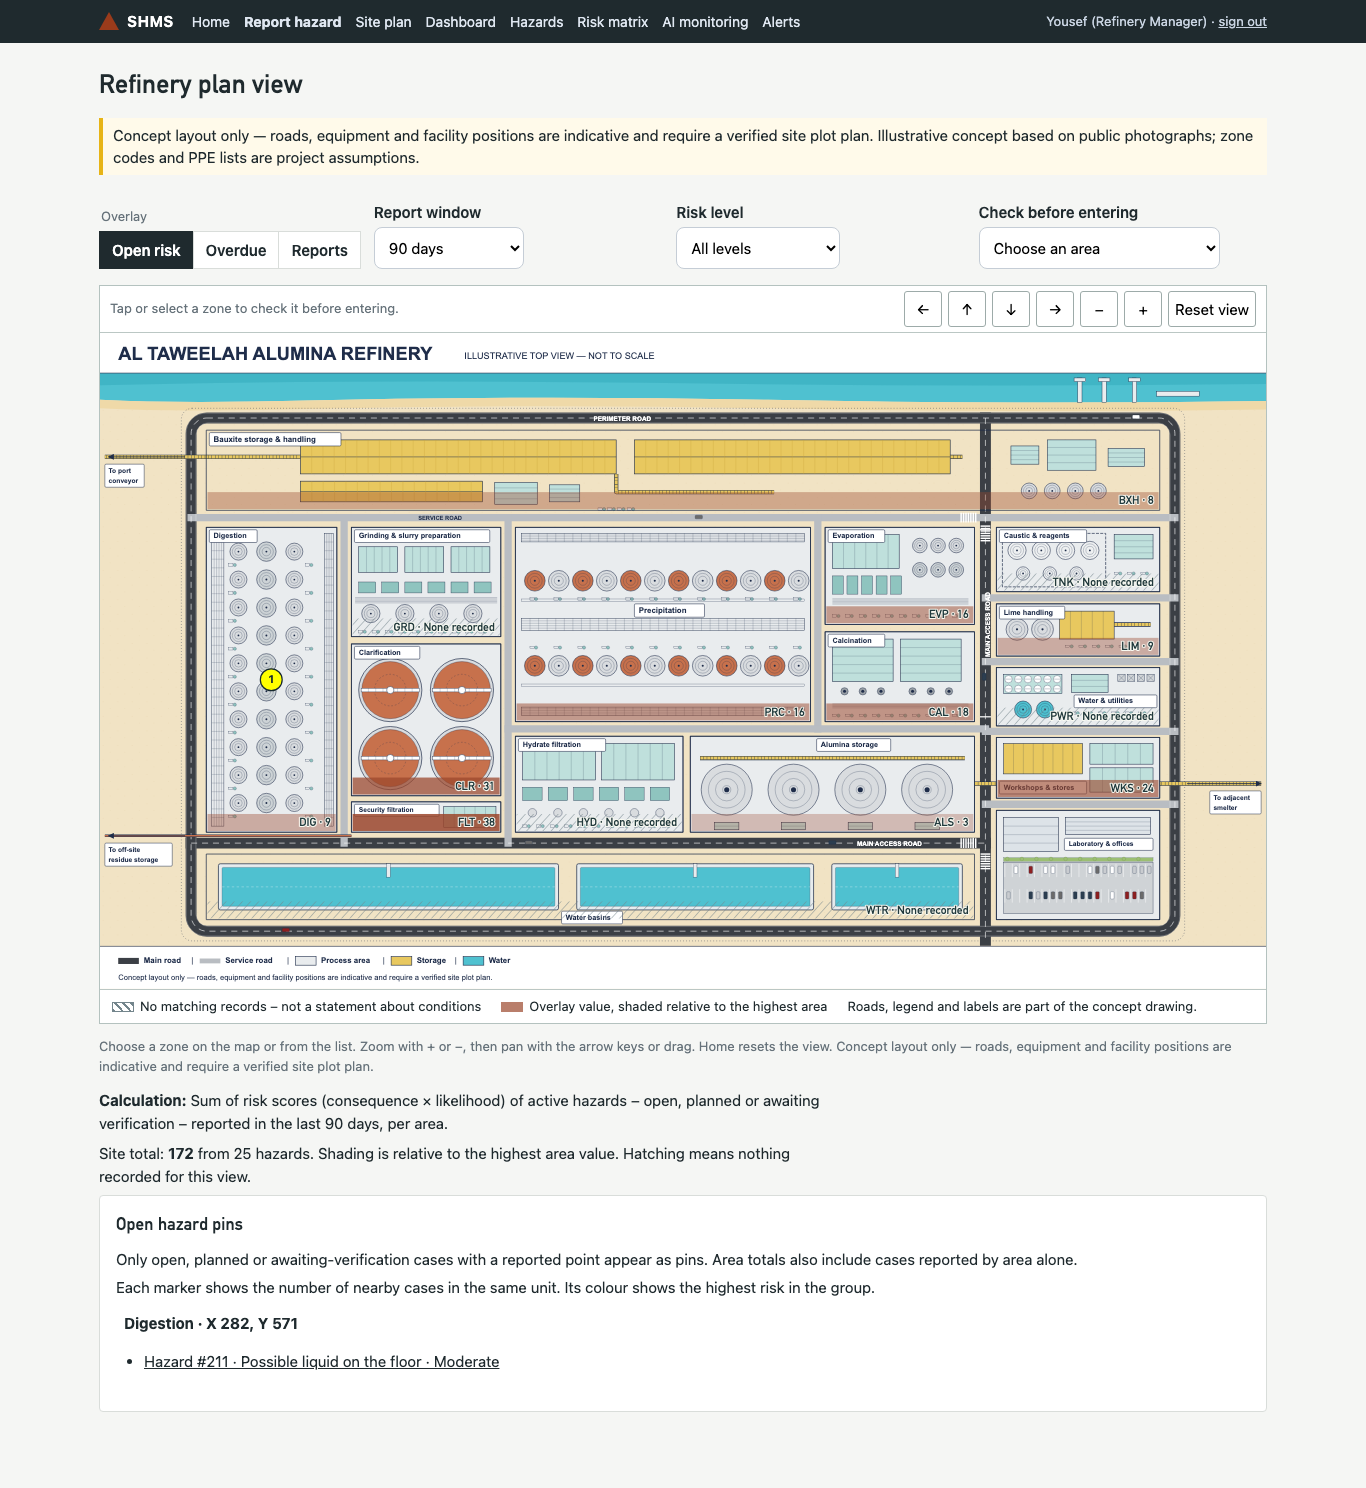
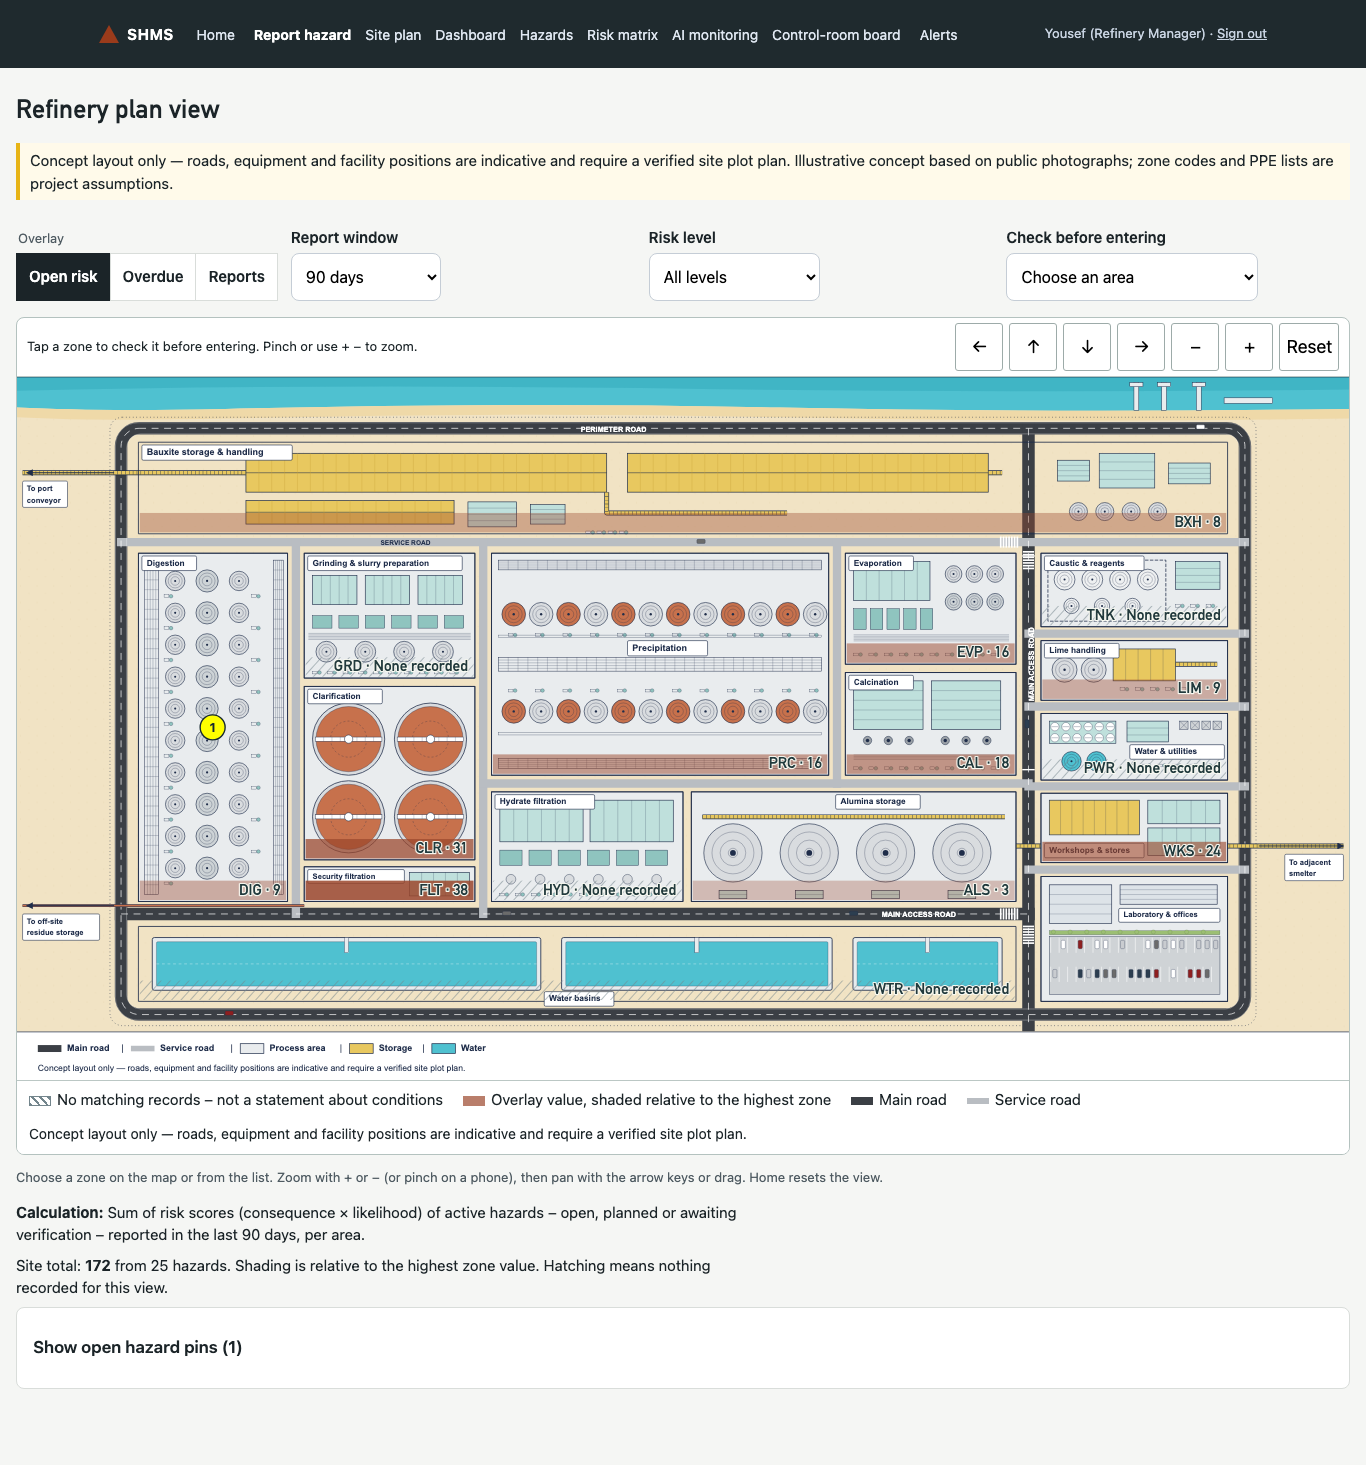
UX review results, Phase 7 log and screenshots

diff --git a/docs/screenshots/audit_ui.py b/docs/screenshots/audit_ui.py
@@ -87,7 +87,11 @@ class Audit:
 
 
 def sign_out(page: Page) -> None:
-    page.locator("form[action='/logout'] button").click()
+    # Desktop and phone headers each have a sign-out form; submit the first (works at any width).
+    if not page.locator("form[action='/logout']").count():  # e.g. the control-room board has no header
+        page.goto(page.url.split("/", 3)[0] + "//" + page.url.split("/", 3)[2] + "/")
+    page.locator("form[action='/logout']").first.evaluate("f => f.submit()")
+    page.wait_for_url("**/login")
 
 
 def check_map(audit: Audit, base_url: str) -> None:
@@ -126,9 +130,10 @@ def check_workflow(audit: Audit, base_url: str) -> None:
     sign_in(page, base_url, "ahmed")
     page.goto(f"{base_url}/report")
     page.locator("#area").select_option(label="Digestion (DIG)")
-    page.locator("#pin-picker summary").click()
+    page.locator("#pin-picker > summary").click()
     page.locator("#report-map").click()
     expect(page.locator("#picked-point")).to_be_visible()
+    page.locator(".coords summary").click()
     page.locator("#pin-x").fill("282")  # inside the Digestion zone of the concept map
     page.locator("#pin-y").fill("571")
     page.locator("#pin-y").press("Tab")
@@ -137,16 +142,16 @@ def check_workflow(audit: Audit, base_url: str) -> None:
     # Generate a plain synthetic PNG for the mock detector, without using a site photo.
     png = page.evaluate("() => document.createElement('canvas').toDataURL('image/png').split(',')[1]")
     page.locator("#photo").set_input_files({"name": "synthetic.png", "mimeType": "image/png", "buffer": b64decode(png)})
-    page.locator("form[action='/report'] button[type=submit]").click()
+    page.get_by_role("button", name="Analyse photo and continue").click()  # in the form, or the phone bottom bar
     page.wait_for_url("**/confirm")
-    audit.check("confirm")
+    audit.check("confirm", capture=True, full_page=True)
     page.select_option("#cat", value="floor_liquid")
     page.locator("input[name='consequence'][value='2']").check()
     page.locator("#desc").fill("Synthetic demonstration: pooled liquid on the digestion walkway.")
     page.get_by_role("button", name="Submit report").click()
     expect(page.get_by_text("Report submitted.", exact=False)).to_be_visible()
     hazard_url = page.url.split("?")[0]
-    audit.check("submitted")
+    audit.check("submitted", capture=True, full_page=True)
     sign_out(page)
     sign_in(page, base_url, "yousef")
     check_map(audit, base_url)
@@ -163,7 +168,7 @@ def check_workflow(audit: Audit, base_url: str) -> None:
     sign_in(page, base_url, "sara")
     page.goto(hazard_url)
     page.locator("#vn").fill("Checked the walkway after the cleanup.")
-    page.get_by_role("button", name="Verify and close").click()
+    page.get_by_role("button", name="Verify and close").first.click()
     expect(page.locator("h1 .st")).to_have_text("closed")
     audit.check("verified_closure")
     sign_out(page)
@@ -175,16 +180,30 @@ def check_pages(audit: Audit, base_url: str) -> None:
     audit.check("login")
     for username, role in [("sara", "supervisor"), ("khalid", "owner"), ("ahmed", "reporter"), ("yousef", "manager")]:
         sign_in(page, base_url, username)
-        audit.check(f"{role}_home")
+        audit.check(f"{role}_home", capture=role in ("supervisor", "manager"), full_page=True)
         if role in ("supervisor", "owner"):
             page.goto(f"{base_url}/queue")
             audit.check(f"{role}_queue")
         if role != "manager":
             sign_out(page)
-    for route in ["dashboard", "hazards", "report", "matrix", "areas/DIG", "monitoring", "notifications"]:
+    for route in [
+        "dashboard",
+        "hazards",
+        "report",
+        "matrix",
+        "areas/DIG",
+        "monitoring",
+        "notifications",
+        "board",
+        "board?theme=dark",
+    ]:
         response = page.goto(f"{base_url}/{route}")
         assert response and response.ok, route
-        audit.check(route)
+        audit.check(
+            route.replace("/", "_").replace("?theme=", "_"),
+            capture=route in ("matrix", "board", "board?theme=dark"),
+            full_page=True,
+        )
     sign_out(page)
     check_workflow(audit, base_url)
 

diff --git a/docs/ux/time_tasks.py b/docs/ux/time_tasks.py
@@ -97,7 +97,7 @@ def report(page: Page, base: str, flow: str):
         t.photo(page.locator("#photo"), png(page))
         if not page.locator("#area").input_value():
             t.choose(page.locator("#area"), label="Digestion (DIG)")
-        t.tap(page.locator("form#hazard-report button[type=submit]"))
+        t.tap(page.get_by_role("button", name="Analyse photo and continue"))  # phone: the bottom action bar
         page.wait_for_url("**/confirm")
         if not page.locator("#cat").input_value():
             t.choose(page.locator("#cat"), value="no_hard_hat")
@@ -110,11 +110,15 @@ def report(page: Page, base: str, flow: str):
 
 def check_area(page: Page, base: str, flow: str):
     t = Task(page, "Check an area before entering", "phone")
-    t.tap(page.get_by_role("link", name="Site plan"))
+    if flow == "after":  # v1.6.0: "Check an area" on the phone home; choosing a zone shows its route at once
+        t.tap(page.locator("a.check-area"))
+    else:
+        t.tap(page.get_by_role("link", name="Site plan"))
     t.choose(page.locator("#unit"), value="ALS")
     page.wait_for_url(lambda url: "unit=ALS" in url)
     expect(page.locator("#unit-detail")).to_be_visible()
-    t.tap(page.locator("#unit-detail a[href*='route=1']"))
+    if not page.locator("#route-status").count():
+        t.tap(page.locator("#unit-detail a[href*='route=1']"))
     expect(page.locator("#route-status")).to_be_visible()
     return t.result()
 

diff --git a/docs/ux_review.md b/docs/ux_review.md
@@ -79,3 +79,63 @@ state machine refuses illegal steps and says why.
 ## After (v1.6.0)
 
 The after-measurements are added at the end of this file, below this line, by the verification step.
+
+### Task timing – before / after
+
+Same script, same fresh synthetic database and the same counting rules. The "after" flow is scripted as a user of v1.6.0
+would do it.
+
+| Task | View | Before: taps · typed · pages · est. s | After: taps · typed · pages · est. s | What changed |
+|---|---|---|---|---|
+| Report a hazard | phone | 7 · 0 · 3 · 16 | **5 · 0 · 3 · 14** | Photo first; area pre-selected from the reporter's last report; submit in the bottom bar |
+| Check an area before entering | phone | 4 · 0 · 3 · 12 | **3 · 0 · 2 · 9** | "Check an area before entering" on the home page; choosing a zone shows its card **and** route at once |
+| Verify a closure | desktop | 2 · 1 · 2 · 14 | 2 · 1 · 2 · 14 | Unchanged on desktop. On phones the "Verify and close" button sits in the bottom bar. |
+
+Notes:
+- A reporter with no earlier report still picks the area: 2 more taps.
+- The pre-selection does not use photo GPS. The concept map is not georeferenced, so a GPS position cannot be placed
+  in a zone honestly.
+- The estimated seconds use the keystroke-level model above, not observed users.
+
+### Page audit – after
+
+- **Tap targets:** 0 interactive elements under 48 × 48 px on any audited page, per role, at 390 and 1366 px. Before:
+  10–24 per page. ([`docs/ux/page_audit.py`](ux/page_audit.py))
+- **Phone text:** 0 text blocks under 16 px. Before: up to 1,657 per page.
+- **Horizontal overflow:** none. The 23 px overflow on `/monitoring` is fixed; wide tables scroll inside a focusable,
+  named region.
+- **axe-core 4.10.3:** 52 page states (all roles, report flow, every overlay, area card, route, `/board` light and
+  dark) at 390 and 1366 px. **0 findings of any severity.**
+  - Two findings came up during the work and were fixed:
+    - the board's timed refresh is now pausable (WCAG 2.2.1);
+    - tables that scroll sideways are now keyboard-focusable.
+
+### Problems from the table above – status
+
+| Problem | Status |
+|---|---|
+| No shift view for supervisors | Fixed: "Day/Night shift – since HH:MM" with reported, High/Extreme, alerts, verified and waiting counts (setting `SHMS_SHIFT_START_HOUR`, `SHMS_SITE_UTC_OFFSET_H`) |
+| Area Owner sees no "today" | Fixed: "My areas today" cards first (new today, due today, overdue, active, highest level) |
+| Report step status unclear | Fixed: step indicator 1 Photo and area · 2 Confirm · 3 Sent, and a fixed bottom action bar |
+| PPE as a text list | Fixed: own blue-circle pictograms, each with its text label (not ISO 7010 artwork) |
+| Closure texts not matching the hazard | Fixed in the seed only: the text depends on the hazard type and the control; the v1.4.1 distribution is unchanged |
+| Inconsistent buttons and spacing | Fixed: `.btn` primary / `.btn.secondary` / `.btn.danger` (Reject); spacing 8/16/24/32; one card pattern |
+| Colour carrying the risk level | Fixed: badge word plus shape icon (○ Low, ◆ Moderate, ▲ High, ■ Extreme); closed status shows ✓ |
+| Typing coordinates | Fixed: tapping the map is primary; coordinates sit behind "Enter coordinates instead" |
+| Picking the area every time | Fixed (last area or `?area=` from an area card); GPS not used (see above) |
+| Consequence radio rows | Fixed: five large labelled cards; production and cost guidance one tap away |
+| Reporting from any phone page | Fixed: "Report a hazard" in a bottom bar on every phone page |
+| No control-room view | Fixed: `/board` (sign-in required, read-only, 60 s pausable refresh, dark option, large type) |
+| Site plan on phones | Fixed: map at full content width (up to 1,680 px on desktop), title strip hidden, pinch zoom, area card under the map, pins collapsed |
+| 4-line phone header | Fixed: logo, Alerts and Menu |
+| Clipped tables on phones | Fixed: work lists stack as rows; other tables scroll inside their card |
+| Empty states | Fixed: "No … are recorded" messages; a test checks every page of every role, with no data, for the word "safe" |
+| Pin cleared on area change | **Not changed** (severity 1): the pin is still cleared, because a pin from one zone is never valid in another |
+| Help text below the map | Partly: the short help is in the map toolbar; the full calculation note stays below |
+
+### Not done
+
+- **Arabic / RTL toggle** (optional in the brief): not started. The 6-hour time box went to the required items. A partial
+  translation of the reporting flow without review by an Arabic-speaking safety professional would risk wrong safety
+  wording.
+- **No real user tests:** the timings are scripted and estimated, not observed with field staff wearing gloves.

diff --git a/docs/verification.md b/docs/verification.md
@@ -1442,3 +1442,64 @@ PPE 21 %, Elimination 4 %, Substitution 3 %.
   - the migration snapshot in `test_migrations.py`, which now ignores only the six new zones.
 - `docs/screenshots/audit_ui.py` (axe-core 4.10.3, 1366 and 390 px) passed: 48 page states, 0 findings, no
   horizontal overflow, no server errors.
+
+# Phase 7 – v1.6.0 (2026-11-26) – layout and usability polish (final feature release)
+
+**Users.** Field operators, contractors, visitors, Area Owners, supervisors and managers in an alumina refinery:
+gloves, sunlight, one hand, little time. The review was committed before any code change (`e48314f`,
+[docs/ux_review.md](ux_review.md)): Nielsen's 10 heuristics per role at 390 and 1366 px, with severities 0–4 and fixes.
+
+**Kept unchanged:** evaluation results, risk-matrix logic, workflow rules, the pin and route rules, and the v1.4.1
+band distribution of the seed. The seed's random sequence is identical; only the closure texts changed, now chosen by
+hazard type and control.
+
+**Changes.**
+- **Layout.** One header (Alerts and Menu on phones), one card pattern, one button hierarchy
+  (`.btn` primary / `.btn.secondary` / `.btn.danger`), spacing 8/16/24/32, all controls ≥ 48 × 48 px, phone text
+  ≥ 16 px.
+- **Bottom bar on phones.** Each page puts its main action there: "Report a hazard", or the page's submit / verify.
+- **Reporting.** Photo first; area pre-selected from the reporter's last report or from `?area=CODE`; step
+  indicator; consequence on five labelled cards; description optional.
+- **Site plan.** Map at full content width (main column up to 1,680 px), the drawing's title strip hidden (the
+  "Concept layout only" note is kept below the map), larger zone labels and an HTML key, pinch zoom on touch
+  screens. The area card sits directly under the map; choosing a zone shows its route at once; pins sit in a
+  collapsed list.
+- **"Check before entering" card.** Required PPE as our own blue-circle pictograms with labels (not ISO 7010
+  artwork), open hazards with badges, the suggested route, "Permits and site rules still apply", and "Report a
+  hazard here".
+- **Risk badges.** The word plus a shape icon (○ ◆ ▲ ■); the closed status shows ✓. Safety colours: red danger,
+  amber caution, green completed, blue mandatory PPE.
+- **Home pages.** Supervisor: "since start of shift" counts (`SHMS_SHIFT_START_HOUR`, `SHMS_SITE_UTC_OFFSET_H`).
+  Area Owner: "My areas today" first.
+- **`/board`.** Control-room view: sign-in required, read-only, open-risk map, Extreme/High list, overdue count,
+  60 s auto-refresh that the viewer can pause, dark option, large type.
+- **Empty states.** "No … are recorded"; never "safe".
+
+**Verification.**
+- **Task timing, before → after.** Script [docs/ux/time_tasks.py](ux/time_tasks.py), estimated seconds:
+  - Report a hazard (phone): 7 → 5 taps, 0 typed, 16 → 14 s.
+  - Check an area (phone): 4 → 3 taps, 3 → 2 pages, 12 → 9 s.
+  - Verify a closure (desktop): 2 taps and 1 typed field, unchanged.
+- **Page audit** ([docs/ux/page_audit.py](ux/page_audit.py), every main page per role at 390 and 1366 px):
+  - 0 interactive elements under 48 × 48 px (before: 10–24 per page);
+  - 0 phone text blocks under 16 px;
+  - 0 horizontal overflow (before: `/monitoring` 23 px).
+- **axe-core 4.10.3** (`docs/screenshots/audit_ui.py`): 52 states at 390 and 1366 px, **0 findings**. During the
+  work it found two problems in the new code, both fixed: an unpausable timed refresh and non-focusable scrolling
+  tables.
+- **Tests.** New `tests/test_ux_v16.py` covers:
+  - the area-card contents;
+  - `/board` sign-in, read-only, refresh control, dark option and overdue count;
+  - badge text and icons;
+  - the phone bottom bar on every page, plus the report, confirm and verify actions;
+  - consequence cards;
+  - area pre-selection;
+  - closure text matching the hazard type;
+  - shift-window rules;
+  - the owner's "today" view;
+  - no page saying "safe" when there is no data, for every role.
+
+**Not done.**
+- The optional Arabic / RTL toggle: time box. Safety wording needs a reviewed translation.
+- Area pre-selection from photo GPS: the concept map is not georeferenced.
+- Real user tests with field staff: the timings are scripted estimates.

diff --git a/README.md b/README.md
@@ -121,6 +121,8 @@ All settings are environment variables (or lines in `.env`); see [`.env.example`
 | `SHMS_INSTANCE_DIR` | `instance` | Where that generated key is kept (Docker: `/data/instance`) |
 | `SHMS_EXPERIMENTAL_CONDITIONS` | `0` | `1` enables the EXPERIMENTAL unsafe-condition check (liquid on the floor, obstructed walkway; needs Ollama) |
 | `SHMS_DEMO_HEADER_AUTH` | `0` | `1` lets the API accept an `X-User-Id` header instead of a token – tests and local scripts only |
+| `SHMS_SHIFT_START_HOUR` | `6` | Start of the day shift in local time; 12-hour shifts (project setting for the supervisor's "since start of shift" counts) |
+| `SHMS_SITE_UTC_OFFSET_H` | `4` | Site time zone offset from UTC, used for shift and "today" views (the database stores UTC) |
 
 The risk matrix follows the **ADOSH-SF Technical Guideline "Process of Risk Management", version 4.0 (15 July 2024)**:
 consequence levels and definitions from Table 1 (human health and safety; production loss and cost shown as guidance),
@@ -141,6 +143,16 @@ adds the closure fields and re-scores every confirmed hazard to the v4.0 matrix,
 risk empty ("not recorded"). Migration `0009_ata_site_map` (v1.5.0) renames the nine existing areas to the zone names
 of the approved map (codes, ids, hazards and pins kept), adds the six new zones (EVP, HYD, ALS, LIM, WKS, WTR) with
 project-assumed PPE, and moves existing report pins proportionally into their zone on the new map.
+
+**Field use (v1.6.0).** Pages are built for gloves, sunlight, one hand and little time:
+- every control is at least 48 × 48 px, and phone text is at least 16 px;
+- on phones, a bottom bar carries the main action ("Report a hazard", or the page's submit);
+- reporting starts with the photo, and the area is pre-selected from your last report;
+- consequence is chosen on large labelled cards;
+- risk badges always show the word and a shape icon (○ Low, ◆ Moderate, ▲ High, ■ Extreme);
+- the "Check before entering" card shows required PPE as our own blue-circle pictograms with labels.
+
+See [docs/ux_review.md](docs/ux_review.md) for the heuristic review and the before/after task timings.
 
 ## Usage
 
@@ -188,6 +200,9 @@ Main workflow:
    report volume – each stating its calculation, window and site total; an area with nothing recorded is hatched and
    labelled as such, never as "safe", and report volume is shown in a neutral colour because it is not a measure of
    danger. The dashboard (`/dashboard`) keeps the KPIs, trend, repeat hotspots and the hazard register.
+   **Control-room board** (`/board`, v1.6.0): a read-only large-screen page with the site map (open-risk overlay), the
+   active Extreme/High list and the overdue count. It refreshes every 60 s (pausable), has a dark-background option
+   and requires sign-in.
    Select a reporting zone to inspect required PPE, active cases, overdue actions and recent closures.
    **Check before entering** can draw a suggested route from the south gate along the road centre-lines that avoids
    every road beside a zone with active High or Extreme cases, or says honestly why no route is available. Follow site
@@ -252,7 +267,7 @@ created before migrations existed (no `alembic_version` table) are recognised an
 pytest                 # or: make test
 ```
 
-The 418-test suite runs without a model or GPU (the YOLO tests run automatically when the weights are present); about 2 minutes on
+The 446-test suite runs without a model or GPU (the YOLO tests run automatically when the weights are present); about 2 minutes on
 GitHub's Ubuntu runners, 30–80 s on the test laptop depending on load. They cover every cell of the risk matrix against the ADOSH-SF Table 3 grid, the alert rules, the hierarchy-of-controls and residual-risk closure fields, the
 PPE rules, area-specific PPE checks, idempotent reporting, database constraints and migrations (an old database is
 upgraded with identical rows, and the v4.0 re-scoring with its audit events), every state-machine transition and every action from every wrong state, permissions
